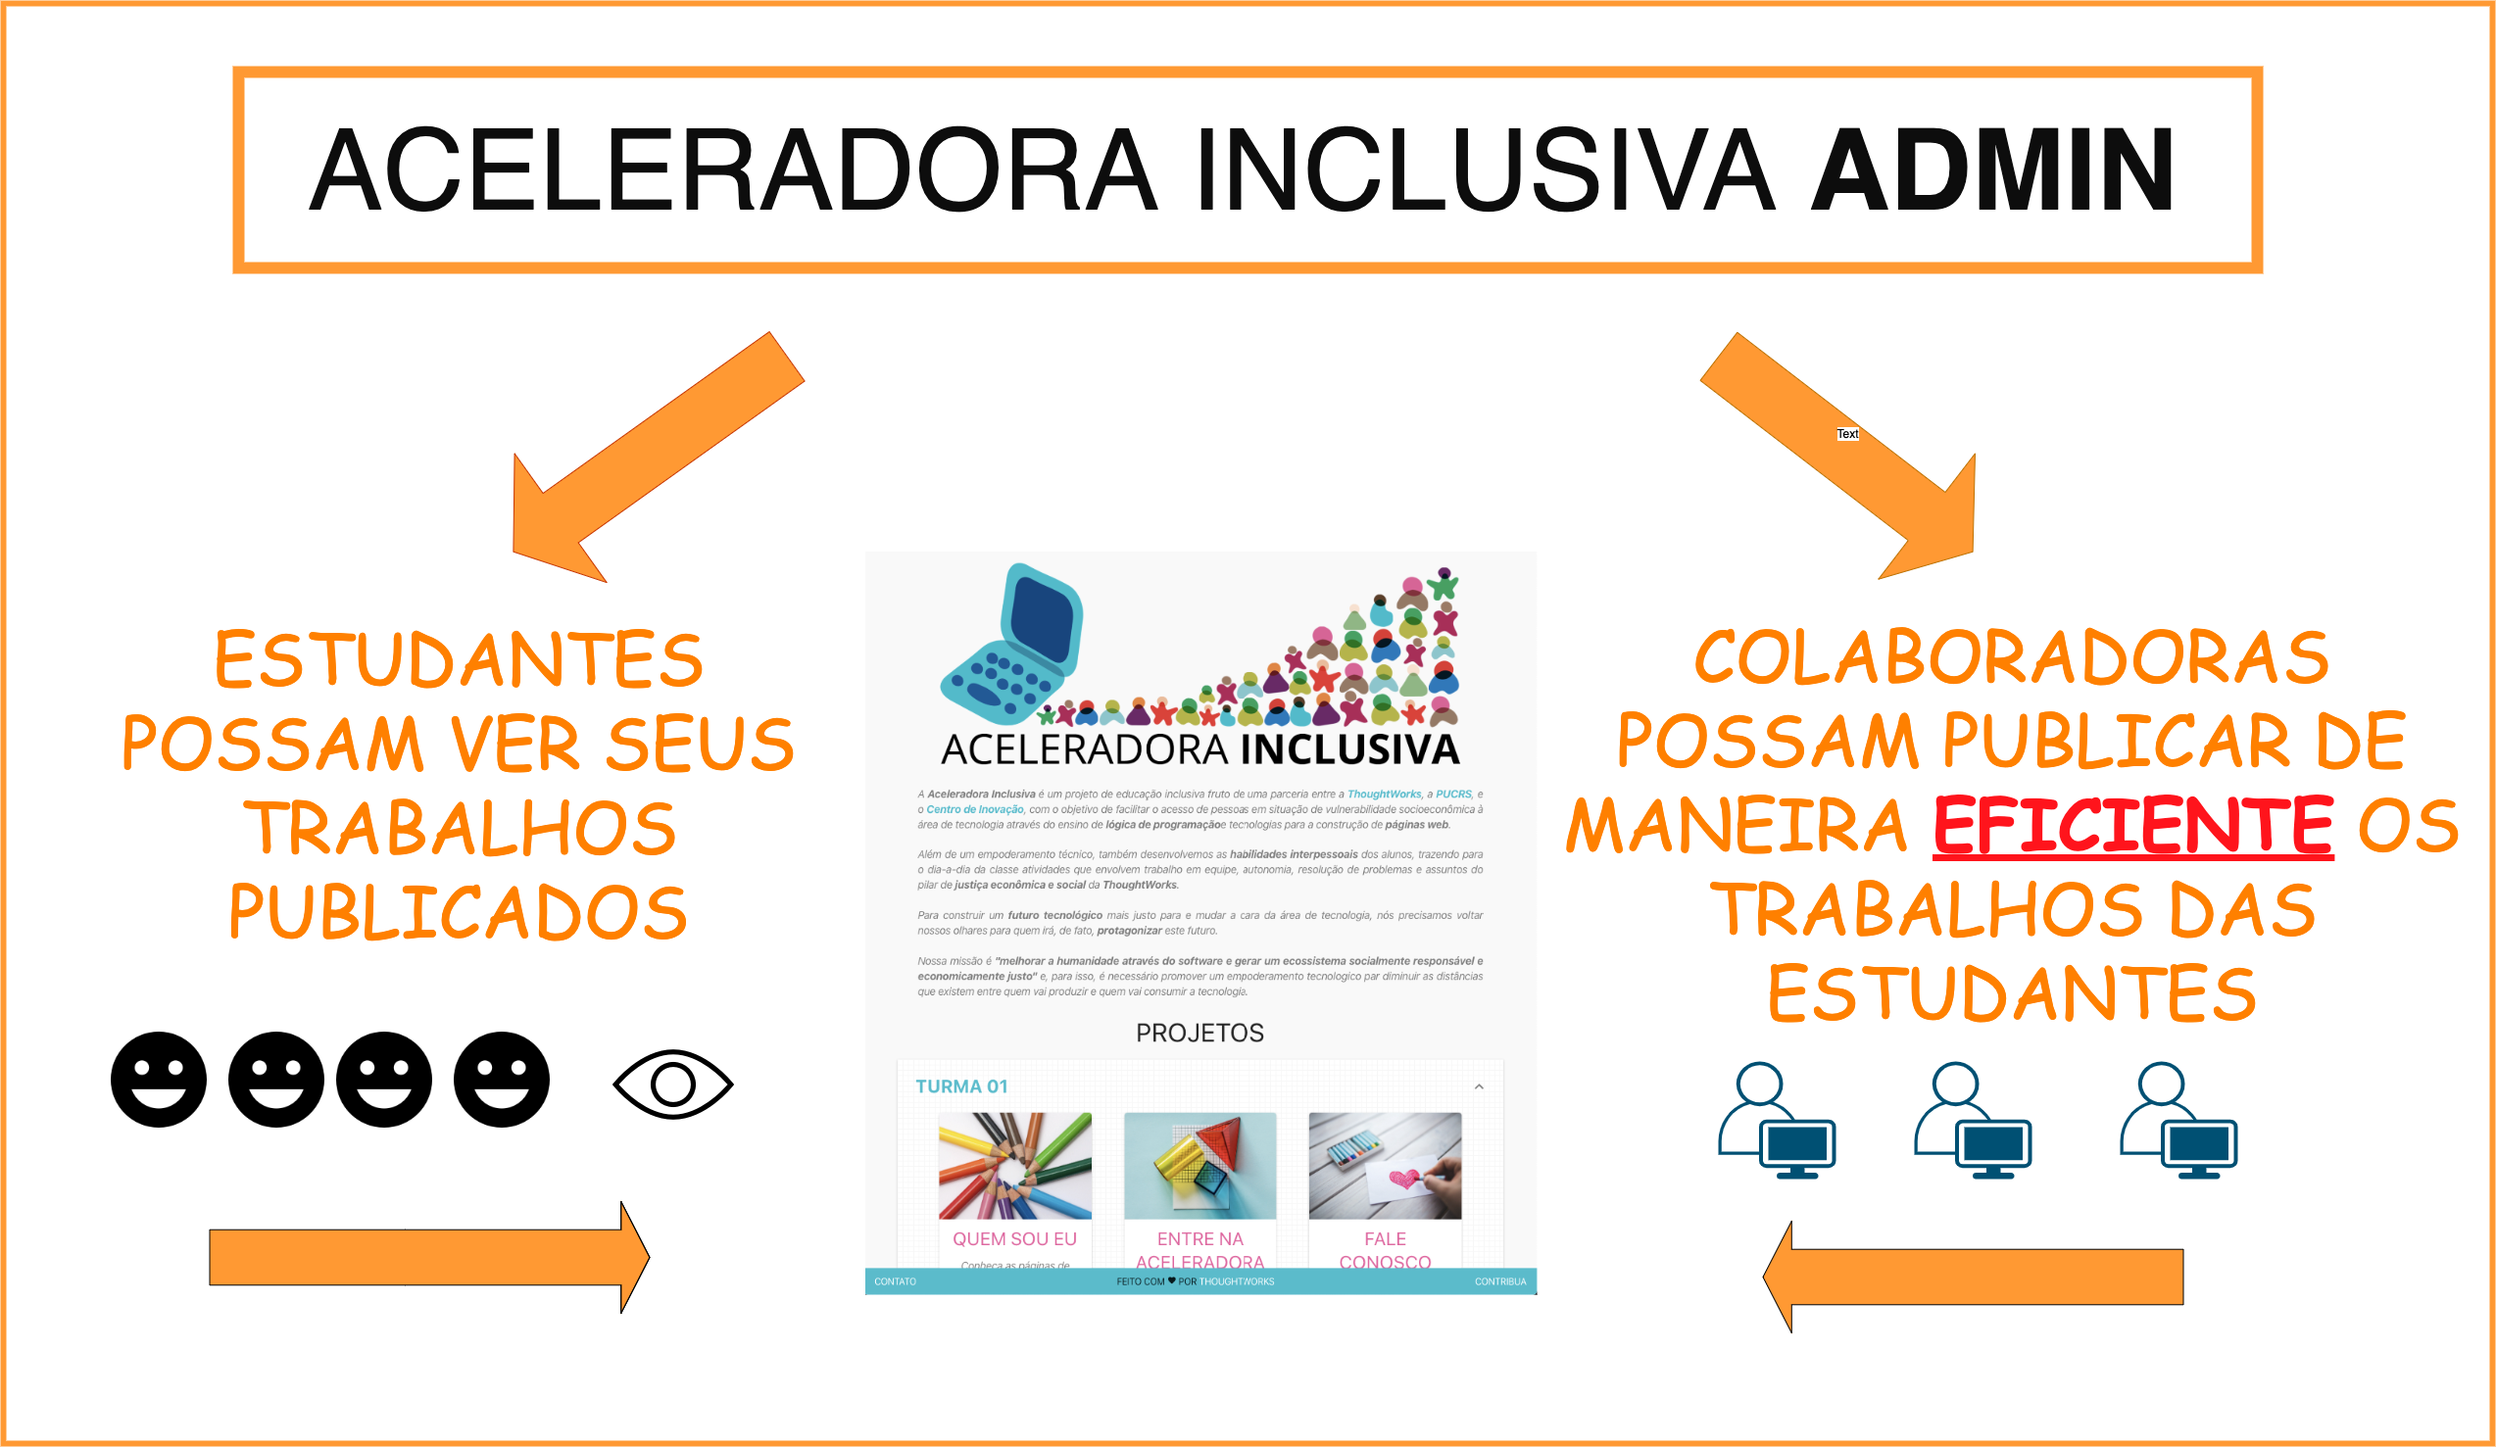
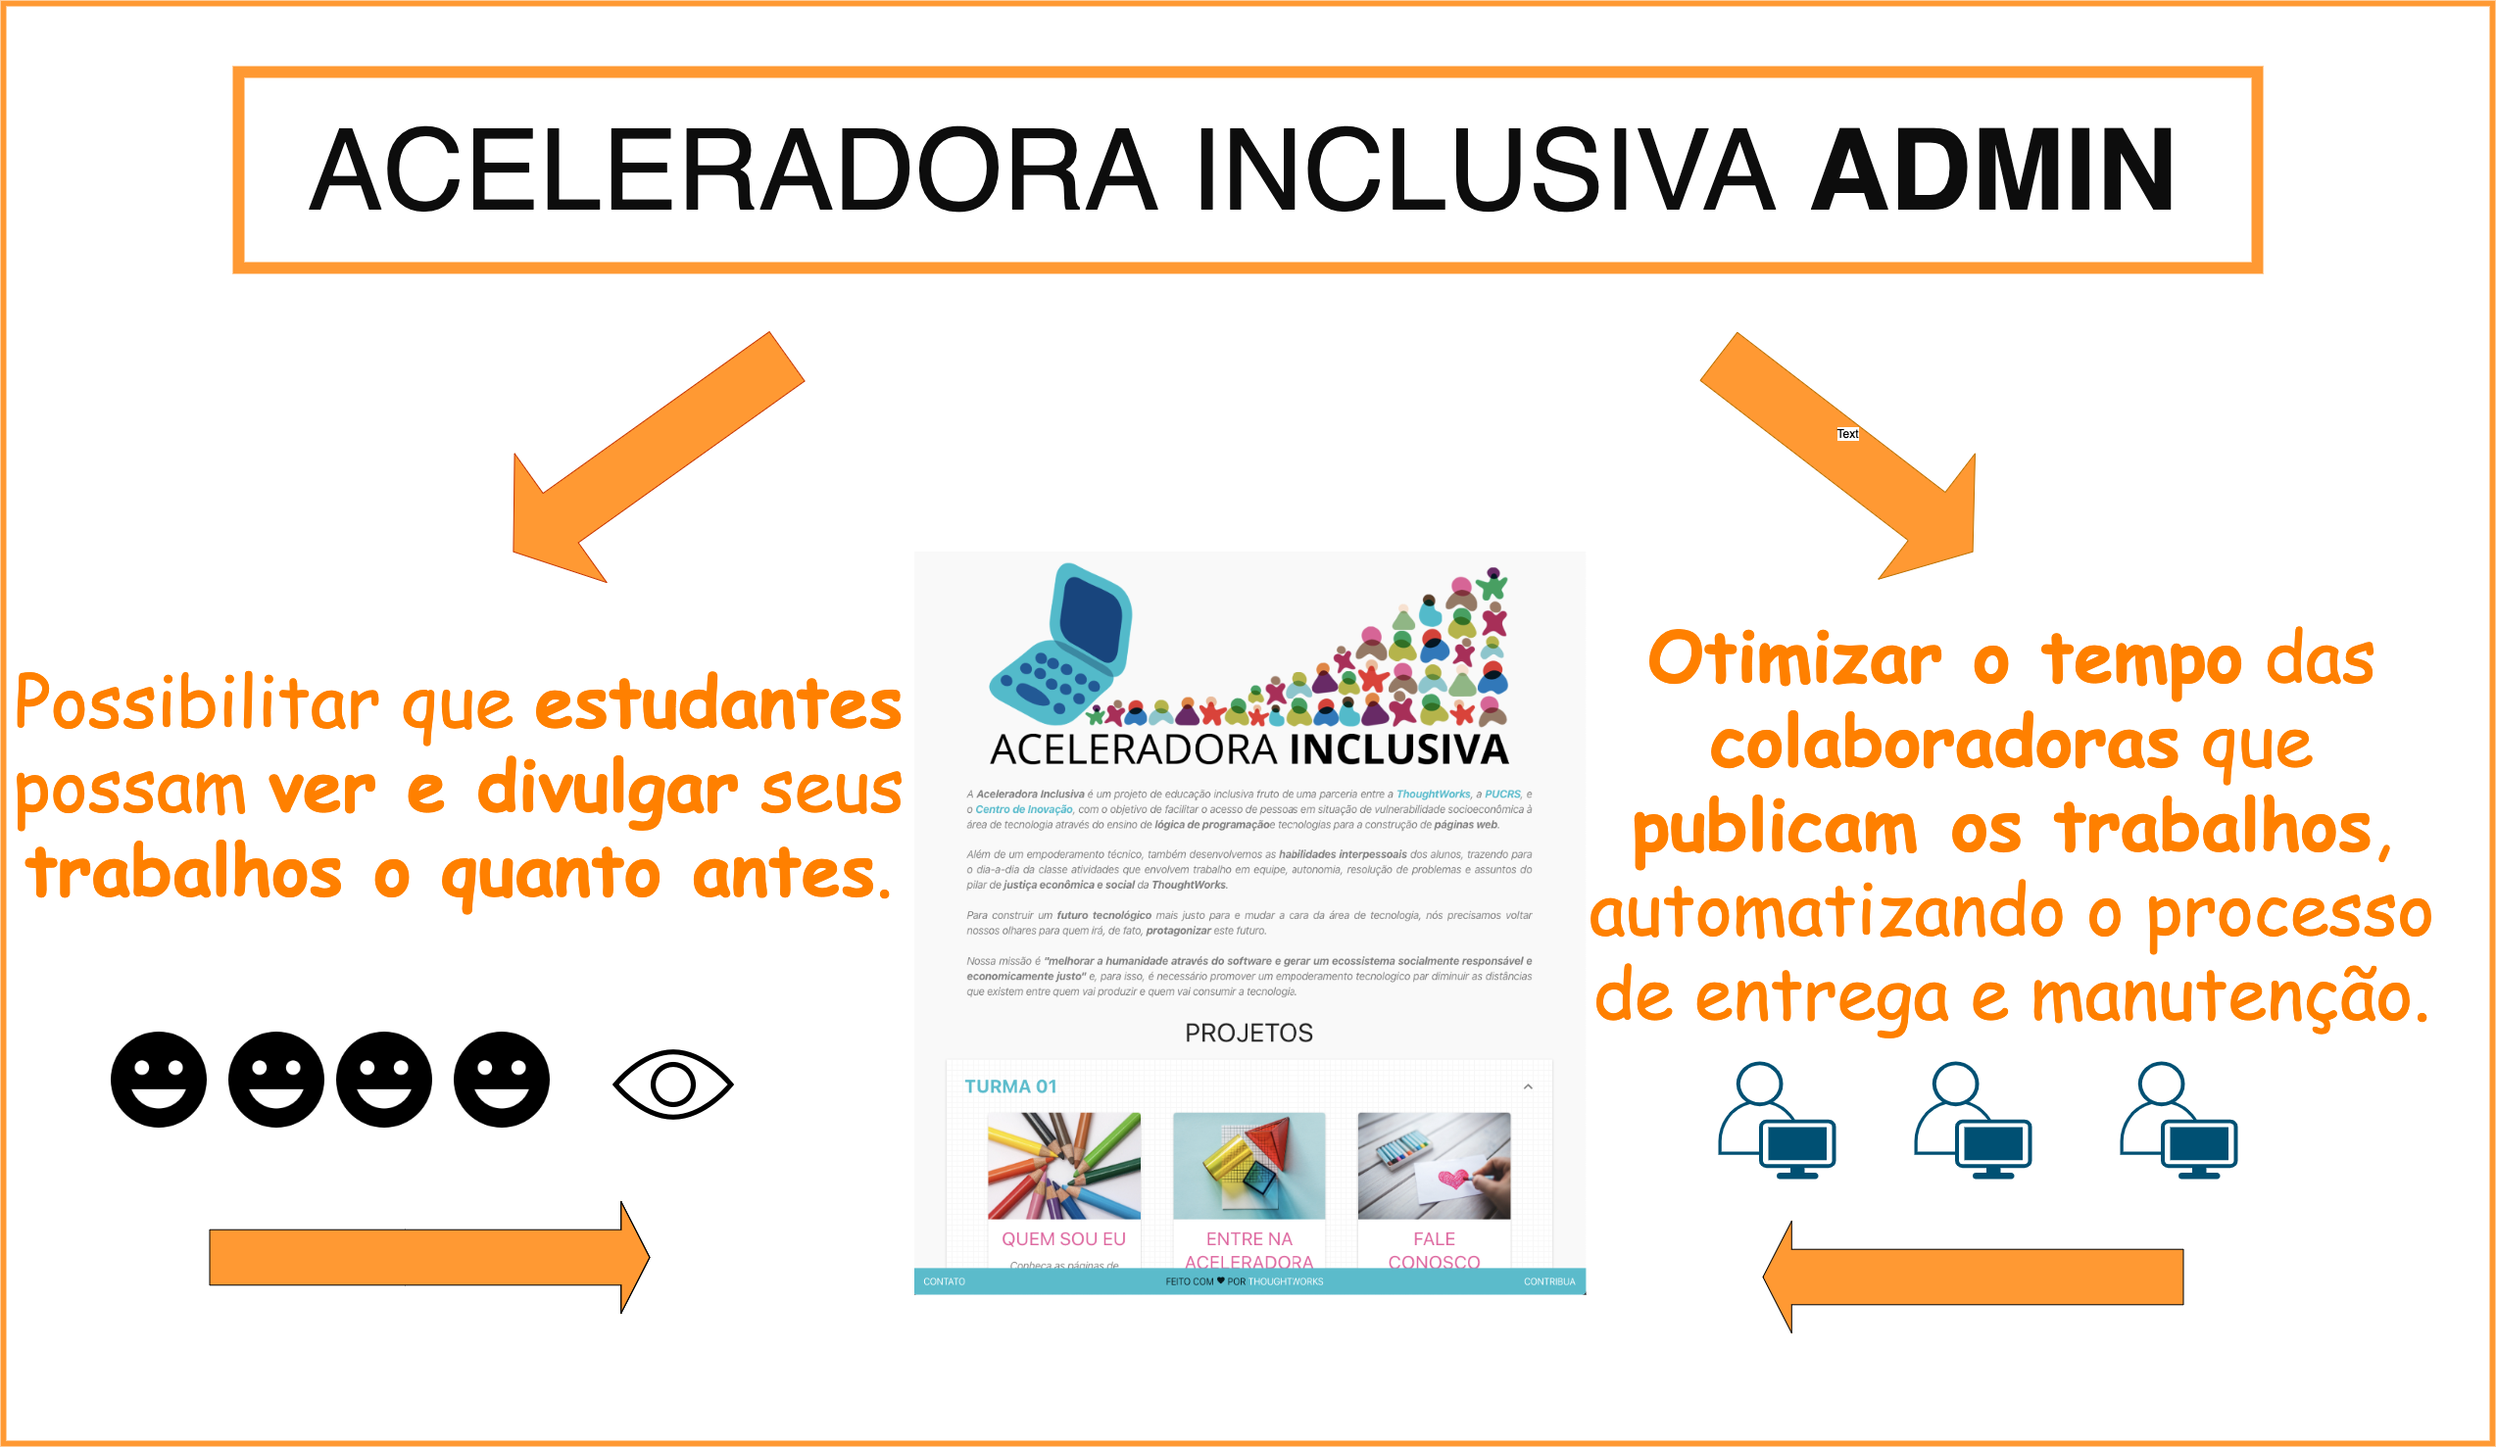
Ajustando pagina de entregas

diff --git a/README.md b/README.md
@@ -1,11 +1,11 @@
 # Aceleradora inclusiva admin
 ![Image of Yaktocat](./Aceleradora-ADM.png)
 
-## Objetivo projeto?
+## Objetivo do projeto?
 
-1) Possibilitar que as pessoas estutantes possame ver e divulgar seus trabalhos o quanto antes.
+1) Possibilitar que as pessoas estudantes possam ver e divulgar seus trabalhos o quanto antes.
 
-2) Otimizar o tempo das pessoas colaboradoras que públicam os trabalhos automatizando o processo de entrega e manutenção.
+2) Otimizar o tempo das pessoas colaboradoras que publicam os trabalhos, automatizando o processo de entrega e manutenção.
 
 ## Setup do projeto
 
@@ -16,7 +16,8 @@
   machine$% ls 
   aceleradora-inclusiva-admin/        aceleradora-inclusiva-showcase-web/                
   ```
-- Instalar o sqlite3 seguindo esse link https://www.sqlite.org/index.html
+
+- Instalar o sqlite3  `brew install sqlite3`(no MAC) ou seguir esse link: https://www.sqlite.org/index.html
 - Entrar na pasta do projeto ADM: `cd aceleradora-inclusiva-admin`
 - Instalar o projeto ADM: `npm install`
 - Configurar o banco de dados: `npm run dbcreate`
